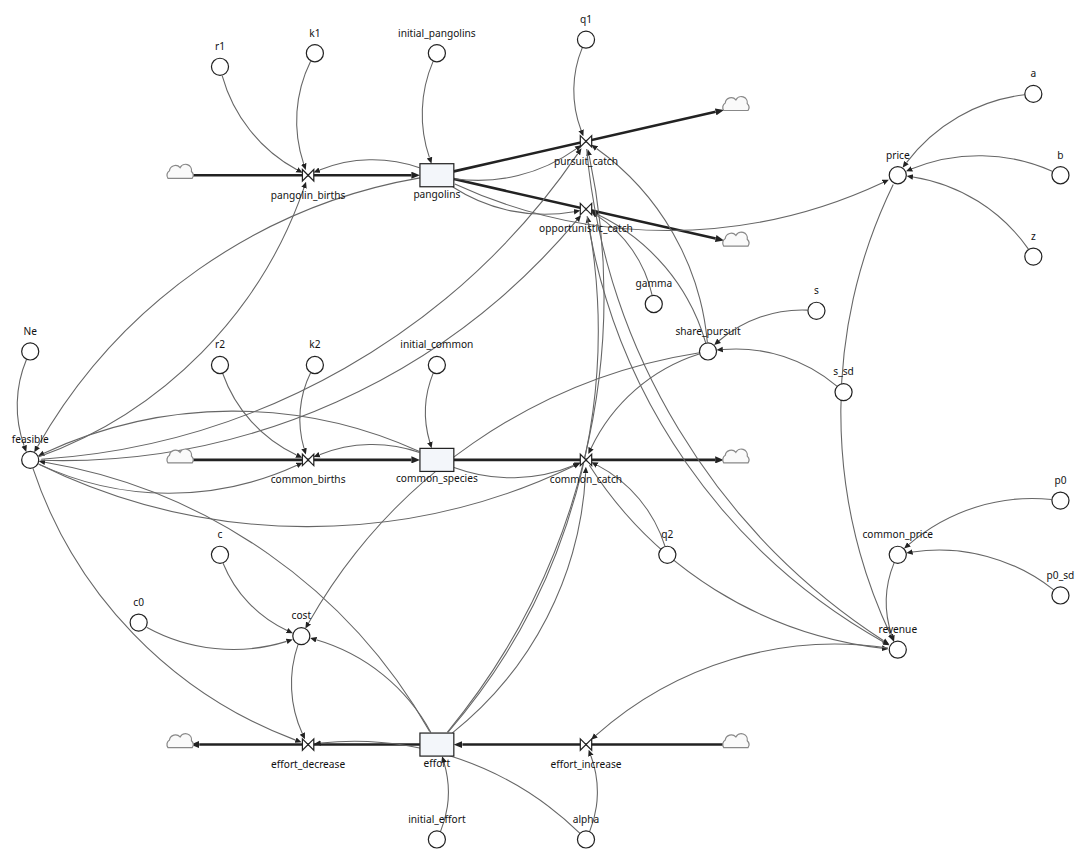
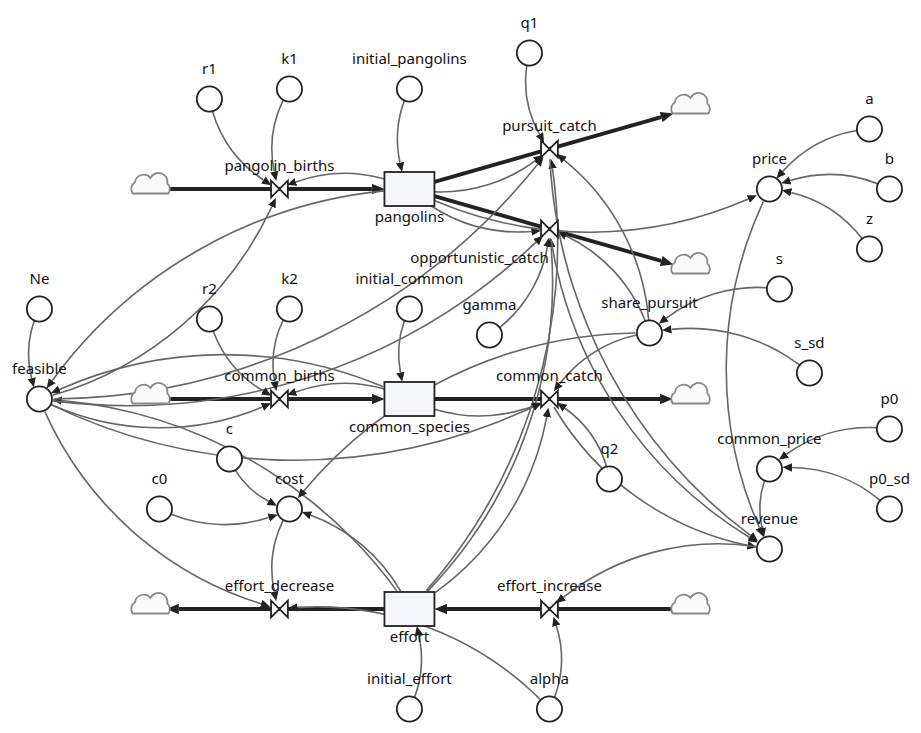
Pangolin: the compact layout (spacing about half), and its picture

diff --git a/models/pangolin/index.html b/models/pangolin/index.html
@@ -18,7 +18,7 @@
 <h2>Published in</h2>
 <p>Almeida, R. J., Bonachela, J. A., &amp; Lockwood, J. L. (2023). Multiple co-occurring bioeconomic drivers of overexploitation can accelerate rare species extinction risk. <i>Journal of Applied Ecology</i>, 60(5), 754–763. <a href="https://doi.org/10.1111/1365-2664.14376">https://doi.org/10.1111/1365-2664.14376</a></p>
 <p>Supporting information, the authors’ R script for the model: Almeida, R., Bonachela, J., &amp; Lockwood, J. (2023). Multiple co-occurring bioeconomic drivers of overexploitation can accelerate rare species extinction risk [Dataset]. Dryad. <a href="https://doi.org/10.5061/dryad.0p2ngf25b">https://doi.org/10.5061/dryad.0p2ngf25b</a></p>
-<figure><img src="diagram.png" width="1086" height="860" alt="The Pangolin harvest model's diagram: three stocks, pangolins, common_species and effort, with their flows, and the price, revenue and cost that drive effort"><figcaption>The model’s diagram.</figcaption></figure>
+<figure><img src="diagram.png" width="921" height="733" alt="The Pangolin harvest model's diagram: three stocks, pangolins, common_species and effort, with their flows, and the price, revenue and cost that drive effort"><figcaption>The model’s diagram.</figcaption></figure>
 </main>
 </body>
 </html>
